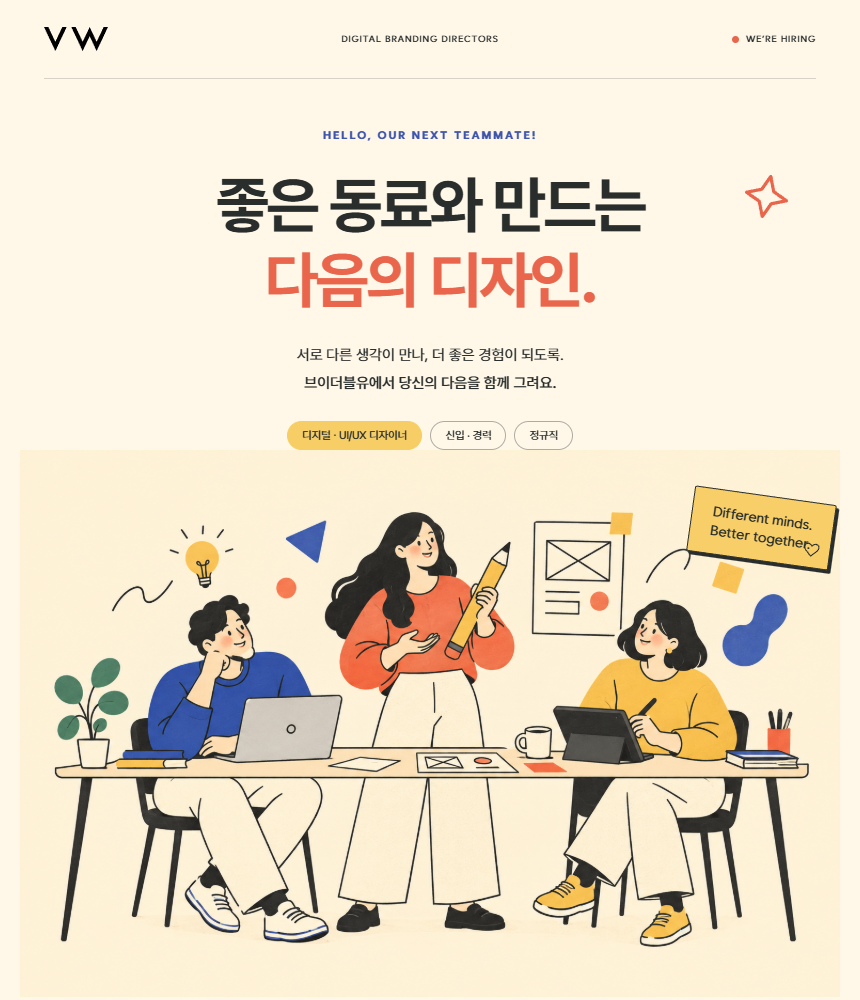
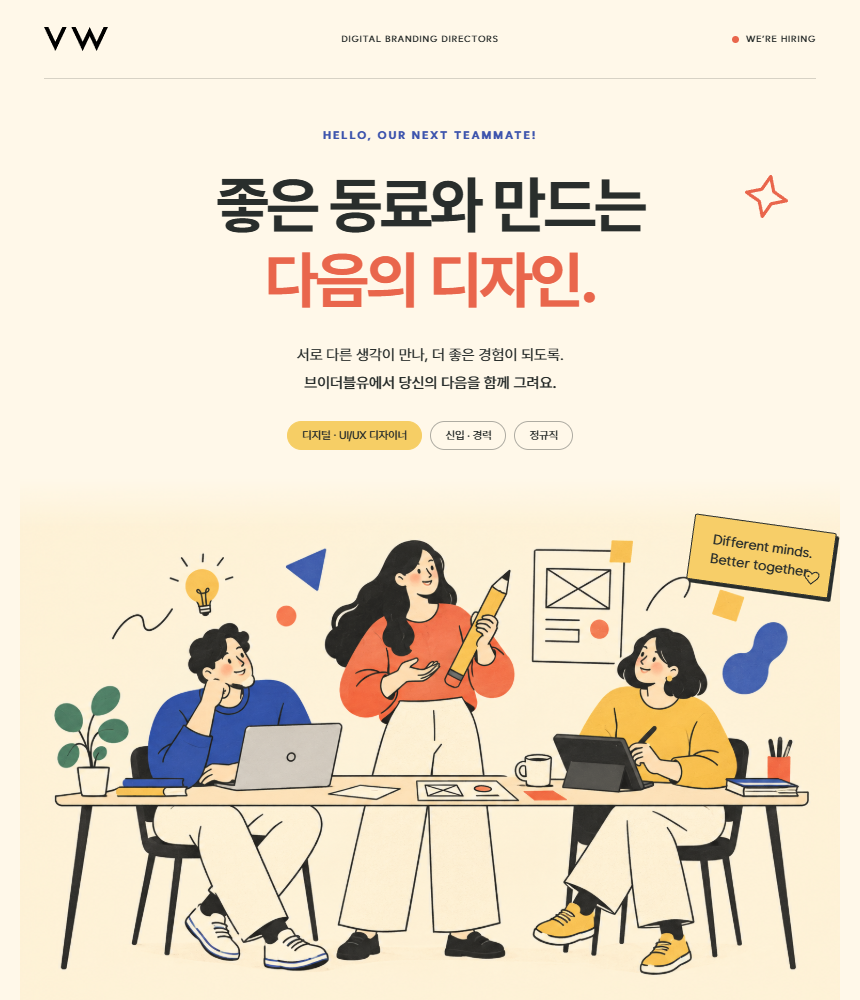
111

Changed region(s): [[0.0605, 0.465, 0.9977, 0.992], [0.1209, 0.589, 0.1814, 0.62]]

diff --git a/src/pages/Studio.css b/src/pages/Studio.css
@@ -1,11 +1,12 @@
 .recruitment.playful{--ink:#292e2c;--paper:#fff8e9;--coral:#e9664c;--blue:#3e55ad;max-width:860px;margin:auto;background:var(--paper);color:var(--ink);overflow:hidden;line-height:1.75}
 .playful *{box-sizing:border-box}.playful h1,.playful h2,.playful h3,.playful p,.playful figure{margin:0;word-break:keep-all}.playful img{display:block;max-width:100%}.playful svg{width:24px;height:24px;flex-shrink:0}.playful a{color:inherit}.playful em{font-style:normal;color:var(--blue)}
 .p-header{display:flex;align-items:center;justify-content:space-between;gap:20px;margin:0 44px;padding:27px 0;border-bottom:1px solid #292e2c30}.p-header img{width:64px}.p-header>span{font-size:9px;letter-spacing:1px}.p-hiring{display:flex;align-items:center;gap:7px}.p-hiring i{width:7px;height:7px;background:var(--coral);border-radius:50%}
-.p-hero{text-align:center;padding:47px 36px 0}.p-kicker{font-size:11px;letter-spacing:2px;color:var(--blue);font-weight:700}.p-hero h1{font-size:62px;line-height:1.22;letter-spacing:-3px;margin:22px 0;position:relative;font-weight:700}.p-hero h1>span{color:var(--coral)}.p-hero h1>svg{position:absolute;width:49px;height:49px;right:33px;top:4px;color:var(--coral);transform:rotate(12deg)}.p-lead{font-size:15px;line-height:1.9}.p-lead strong{font-weight:500}.p-chips{display:flex;justify-content:center;flex-wrap:wrap;gap:8px;margin:23px 0 0}.p-chips span{border:1px solid #292e2c60;border-radius:30px;padding:4px 14px;font-size:11px}.p-chips span:first-child{background:#f6ce65;border-color:#f6ce65}.p-illustration{position:relative;margin:0 -16px}.p-illustration img{width:100%;height:auto;mix-blend-mode:multiply}.p-note{position:absolute;right:7px;top:45px;transform:rotate(8deg);background:#f7ce68;padding:13px 20px;line-height:1.35;font-size:14px;text-align:left;border:1px solid #292e2c;border-radius:2px;box-shadow:3px 3px 0 #292e2c}.p-note svg{width:16px;height:16px;position:absolute;right:10px;bottom:9px}.p-hero-link{display:flex;justify-content:space-between;border-top:1px solid #292e2c55;margin-top:5px;padding:18px 3px;text-decoration:none;font-size:13px}.p-hero-link>span{font-size:22px;line-height:1}.p-ribbon{background:var(--blue);color:var(--paper);display:flex;align-items:center;justify-content:space-around;gap:18px;padding:18px 24px;font-size:12px;letter-spacing:1.4px}.p-ribbon svg{width:18px;height:18px;color:#f6ce65}
+.p-hero{text-align:center;padding:47px 36px 0}.p-kicker{font-size:11px;letter-spacing:2px;color:var(--blue);font-weight:700}.p-hero h1{font-size:62px;line-height:1.22;letter-spacing:-3px;margin:22px 0;position:relative;font-weight:700}.p-hero h1>span{color:var(--coral)}.p-hero h1>svg{position:absolute;width:49px;height:49px;right:33px;top:4px;color:var(--coral);transform:rotate(12deg)}.p-lead{font-size:15px;line-height:1.9}.p-lead strong{font-weight:500}.p-chips{display:flex;justify-content:center;flex-wrap:wrap;gap:8px;margin:23px 0 0}.p-chips span{border:1px solid #292e2c60;border-radius:30px;padding:4px 14px;font-size:11px}.p-chips span:first-child{background:#f6ce65;border-color:#f6ce65}.p-illustration{position:relative;margin:28px -16px 0}.p-illustration img{width:100%;height:auto;mix-blend-mode:multiply;mask-image:linear-gradient(to bottom,transparent,#000 9%);-webkit-mask-image:linear-gradient(to bottom,transparent,#000 9%)}.p-note{position:absolute;right:7px;top:45px;transform:rotate(8deg);background:#f7ce68;padding:13px 20px;line-height:1.35;font-size:14px;text-align:left;border:1px solid #292e2c;border-radius:2px;box-shadow:3px 3px 0 #292e2c}.p-note svg{width:16px;height:16px;position:absolute;right:10px;bottom:9px}.p-hero-link{display:flex;justify-content:space-between;border-top:1px solid #292e2c55;margin-top:5px;padding:18px 3px;text-decoration:none;font-size:13px}.p-hero-link>span{font-size:22px;line-height:1}.p-ribbon{background:var(--blue);color:var(--paper);display:flex;align-items:center;justify-content:space-around;gap:18px;padding:18px 24px;font-size:12px;letter-spacing:1.4px}.p-ribbon svg{width:18px;height:18px;color:#f6ce65}
 .p-section{padding:56px 44px}.p-label{display:flex;align-items:center;gap:10px;font-size:10px;letter-spacing:1.5px;font-weight:700;margin-bottom:23px!important}.p-label>span{border:1px solid currentColor;border-radius:50%;width:25px;height:25px;display:grid;place-items:center;font-size:10px;letter-spacing:0}.playful h2{font-size:36px;letter-spacing:-1.5px;line-height:1.4;font-weight:700}.p-about{position:relative}.p-about>p:not(.p-label){font-size:15px;line-height:1.95;color:#5d6158;margin-top:23px}.p-about-doodle{position:absolute;right:62px;bottom:74px;color:var(--blue);transform:rotate(-10deg)}.p-about-doodle svg:first-child{width:85px;height:85px;stroke-width:1}.p-about-doodle svg:last-child{width:35px;height:35px;position:absolute;top:-18px;right:-29px;color:var(--coral)}
 .p-work{background:#eeeede}.p-coral{color:var(--coral)}.p-work-grid{display:grid;grid-template-columns:repeat(3,minmax(0,1fr));gap:14px;margin-top:30px}.p-work-grid article{border:1px solid #292e2c;border-radius:10px;background:var(--paper);padding:21px 18px 25px;box-shadow:3px 3px 0 #292e2c}.p-work-grid article:nth-child(2){background:#f9d978}.p-work-grid article:nth-child(3){background:#e2e8fa}.p-work-top{display:flex;justify-content:space-between;align-items:center;margin-bottom:27px}.p-work-top svg{width:37px;height:37px}.p-work-top span{font-size:11px}.p-card-sub{font-size:10px;color:#5f635a;margin-bottom:6px!important}.p-work-grid h3{font-size:21px;letter-spacing:-.8px;margin-bottom:10px}.p-work-grid article>p:last-child{font-size:13px;line-height:1.85;color:#565b51}
 .p-fit h2 em{color:var(--coral)}.p-fit-grid{display:grid;grid-template-columns:1.15fr 1fr;gap:27px;margin-top:33px}.p-fit-grid h3{font-size:16px;display:flex;align-items:center;gap:8px;letter-spacing:-.5px}.p-fit-grid ul{padding-left:18px;margin:17px 0 0;font-size:14px;line-height:1.85}.p-fit-grid li{padding:4px 0}.p-fit-grid li::marker{color:var(--coral)}.p-plus{background:#f5ead4;border:1px dashed #ad9e7e;padding:23px;position:relative;transform:rotate(1deg);border-radius:3px}.p-plus-tag{font-size:9px;letter-spacing:1.2px;display:block;margin-bottom:12px;color:#775f39}.p-plus>svg{position:absolute;right:11px;top:-15px;width:31px;height:31px;fill:#f5cf65;background:var(--paper);border-radius:50%}
 .p-life{background:#e5eafa}.p-perks{display:grid;grid-template-columns:repeat(3,minmax(0,1fr));gap:22px;margin:35px 0}.p-perks svg{width:38px;height:38px;color:var(--blue);margin-bottom:10px}.p-perks h3{font-size:17px;letter-spacing:-.6px;margin-bottom:8px}.p-perks p{font-size:13px;color:#555f73}.playful .p-office{border:1px solid #292e2c;border-radius:9px;overflow:hidden;background:var(--paper);margin-top:36px}.p-office>img{width:100%;height:auto}.p-office figcaption{display:flex;gap:10px;align-items:center;padding:16px 20px;font-size:9px;letter-spacing:.6px}.p-office figcaption>span:last-child{margin-left:auto;font-size:11px;letter-spacing:0}.p-office figcaption svg{width:18px;height:18px}
 .p-conditions h2{font-size:32px}.p-conditions dl{margin:30px 0 0}.p-conditions dl>div{display:grid;grid-template-columns:150px 1fr;gap:20px;border-top:1px solid #ccc7b8;padding:22px 0}.p-conditions dt{display:flex;align-items:center;gap:12px;font-size:12px}.p-conditions dt svg{color:var(--blue)}.p-conditions dd{margin:0}.p-conditions dd strong{font-size:19px;font-weight:500;display:block}.p-conditions dd span{display:block;color:#686d60;font-size:12px;margin-top:4px}
 .p-apply{background:var(--blue);color:var(--paper);position:relative;scroll-margin-top:100px}.p-apply h2{font-size:54px;line-height:1.25;letter-spacing:-2px}.p-apply h2 span{color:#f8d473}.p-apply-star{position:absolute;right:64px;top:104px;transform:rotate(10deg)}.p-apply-star svg{width:76px;height:76px;stroke-width:1;fill:#e9664c;stroke:#f8d473}.p-apply-intro{margin-top:22px!important;font-size:15px}.p-steps{display:grid;grid-template-columns:repeat(3,1fr);gap:12px;padding:0;list-style:none;margin:32px 0}.p-steps li{display:flex;flex-direction:column;align-items:center;border:1px solid #fff8e966;border-radius:8px;padding:23px 10px}.p-steps svg{width:30px;height:30px;margin-bottom:13px;color:#f8d473}.p-steps small{font-size:9px;letter-spacing:1.3px;opacity:.7}.p-steps strong{font-weight:500;font-size:17px;margin-top:5px}.p-apply-info{display:grid;grid-template-columns:1fr 1fr;gap:22px;padding:26px 0;border-top:1px solid #ffffff55;border-bottom:1px solid #ffffff55}.p-apply-info h3{font-size:11px;color:#dbdfa9;margin-bottom:10px;font-weight:400}.p-apply-info p{font-size:14px}.p-apply-info small{font-size:11px;opacity:.75}.p-apply-info strong{font-weight:500;font-size:16px;display:block;margin-top:6px}.p-fineprint{font-size:10px;opacity:.7;line-height:1.9;margin-top:25px!important}.p-footer{border-top:1px solid #ffffff55;padding-top:26px;margin-top:31px;display:flex;justify-content:space-between;gap:18px;align-items:end}.p-footer>div{display:flex;align-items:center;gap:17px}.p-footer img{width:56px;filter:invert(1)}.p-footer span{font-size:9px;line-height:1.8}.p-footer a{font-size:11px;white-space:nowrap}
-@media(max-width:600px){.p-header{margin:0 24px;padding:23px 0}.p-header>span:nth-child(2){display:none}.p-hero{padding:35px 24px 0}.p-kicker{font-size:9px;letter-spacing:1.2px}.p-hero h1{font-size:clamp(34px,9.4vw,50px);letter-spacing:-1.8px;margin:20px 0}.p-hero h1>svg{width:25px;height:25px;right:-7px;top:-14px}.p-lead{font-size:12px}.p-chips{gap:5px;margin-top:18px}.p-chips span{font-size:9px;padding:4px 9px}.p-illustration{margin:16px -17px 0}.p-note{font-size:9px;padding:8px 12px;right:5px;top:4px;box-shadow:2px 2px 0 #292e2c}.p-note svg{width:10px;height:10px;bottom:5px;right:6px}.p-hero-link{font-size:11px}.p-ribbon{gap:7px;font-size:8px;letter-spacing:.5px;padding:16px 15px}.p-ribbon svg{width:12px;height:12px}.p-section{padding:39px 24px}.p-label{font-size:9px;letter-spacing:1px;margin-bottom:20px!important}.playful h2{font-size:27px;letter-spacing:-1px}.p-about>p:not(.p-label){font-size:13px}.p-about-doodle{right:33px;bottom:38px}.p-about-doodle svg:first-child{width:38px;height:38px}.p-about-doodle svg:last-child{width:20px;height:20px;right:-14px;top:-12px}.p-work-grid{grid-template-columns:1fr;gap:17px;margin-top:26px}.p-work-grid article{padding:21px}.p-work-top{margin-bottom:15px}.p-work-grid article>p:last-child{max-width:270px}.p-fit-grid{grid-template-columns:1fr;gap:25px}.p-fit-grid ul{font-size:13px}.p-perks{grid-template-columns:1fr;gap:24px;margin:28px 0}.p-perks>div{display:grid;grid-template-columns:43px 1fr;column-gap:14px}.p-perks svg{grid-row:1/3;width:31px;height:31px}.p-perks h3{font-size:16px;margin-bottom:5px}.p-office figcaption{padding:13px;flex-wrap:wrap;font-size:8px;gap:7px}.p-office figcaption>span:last-child{display:none}.p-conditions dl>div{grid-template-columns:1fr;gap:12px;padding:20px 0}.p-conditions dd strong{font-size:19px}.p-apply h2{font-size:41px;letter-spacing:-1.5px}.p-apply-star{right:28px;top:100px}.p-apply-star svg{width:40px;height:40px}.p-apply-intro{font-size:12px}.p-steps{gap:8px}.p-steps li{padding:19px 7px}.p-steps strong{font-size:14px}.p-apply-info{grid-template-columns:1fr;gap:25px}.p-footer{flex-wrap:wrap}.p-footer>div{gap:12px}}
+@media(max-width:600px){.p-header{margin:0 24px;padding:23px 0}.p-header>span:nth-child(2){display:none}.p-hero{padding:35px 24px 0}.p-kicker{font-size:9px;letter-spacing:1.2px}.p-hero h1{font-size:clamp(34px,9.4vw,50px);letter-spacing:-1.8px;margin:20px 0}.p-hero h1>svg{width:25px;height:25px;right:-7px;top:-14px}.p-lead{font-size:12px}.p-chips{gap:5px;margin-top:18px}.p-chips span{font-size:9px;padding:4px 9px}.p-illustration{margin:24px -17px 0}.p-note{font-size:9px;padding:8px 12px;right:5px;top:4px;box-shadow:2px 2px 0 #292e2c}.p-note svg{width:10px;height:10px;bottom:5px;right:6px}.p-hero-link{font-size:11px}.p-ribbon{gap:7px;font-size:8px;letter-spacing:.5px;padding:16px 15px}.p-ribbon svg{width:12px;height:12px}.p-section{padding:39px 24px}.p-label{font-size:9px;letter-spacing:1px;margin-bottom:20px!important}.playful h2{font-size:27px;letter-spacing:-1px}.p-about>p:not(.p-label){font-size:13px}.p-about-doodle{right:33px;bottom:38px}.p-about-doodle svg:first-child{width:38px;height:38px}.p-about-doodle svg:last-child{width:20px;height:20px;right:-14px;top:-12px}.p-work-grid{grid-template-columns:1fr;gap:17px;margin-top:26px}.p-work-grid article{padding:21px}.p-work-top{margin-bottom:15px}.p-work-grid article>p:last-child{max-width:270px}.p-fit-grid{grid-template-columns:1fr;gap:25px}.p-fit-grid ul{font-size:13px}.p-perks{grid-template-columns:1fr;gap:24px;margin:28px 0}.p-perks>div{display:grid;grid-template-columns:43px 1fr;column-gap:14px}.p-perks svg{grid-row:1/3;width:31px;height:31px}.p-perks h3{font-size:16px;margin-bottom:5px}.p-office figcaption{padding:13px;flex-wrap:wrap;font-size:8px;gap:7px}.p-office figcaption>span:last-child{display:none}.p-conditions dl>div{grid-template-columns:1fr;gap:12px;padding:20px 0}.p-conditions dd strong{font-size:19px}.p-apply h2{font-size:41px;letter-spacing:-1.5px}.p-apply-star{right:28px;top:100px}.p-apply-star svg{width:40px;height:40px}.p-apply-intro{font-size:12px}.p-steps{gap:8px}.p-steps li{padding:19px 7px}.p-steps strong{font-size:14px}.p-apply-info{grid-template-columns:1fr;gap:25px}.p-footer{flex-wrap:wrap}.p-footer>div{gap:12px}}
+
